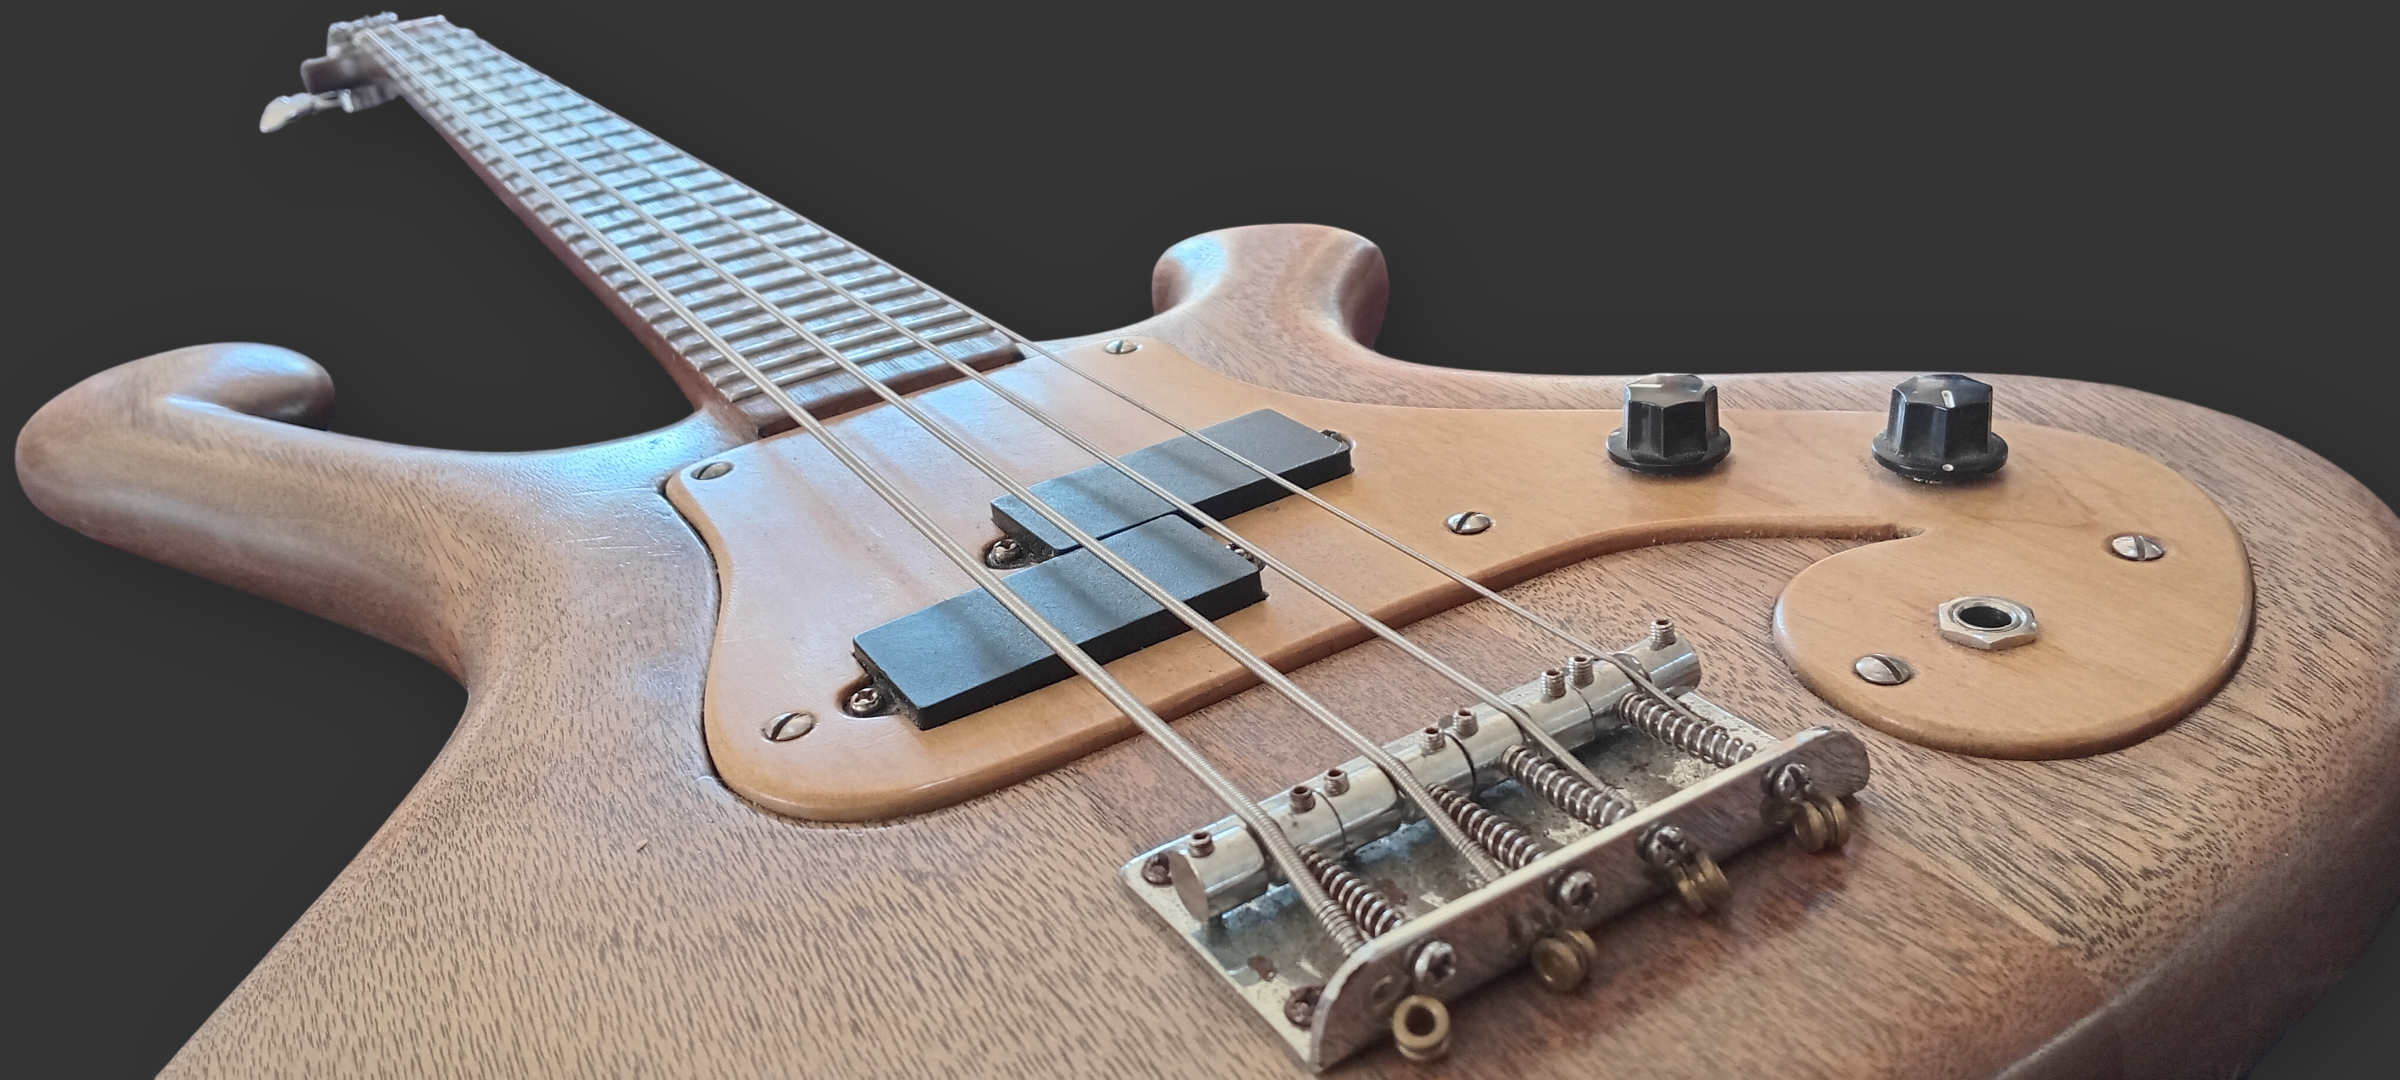
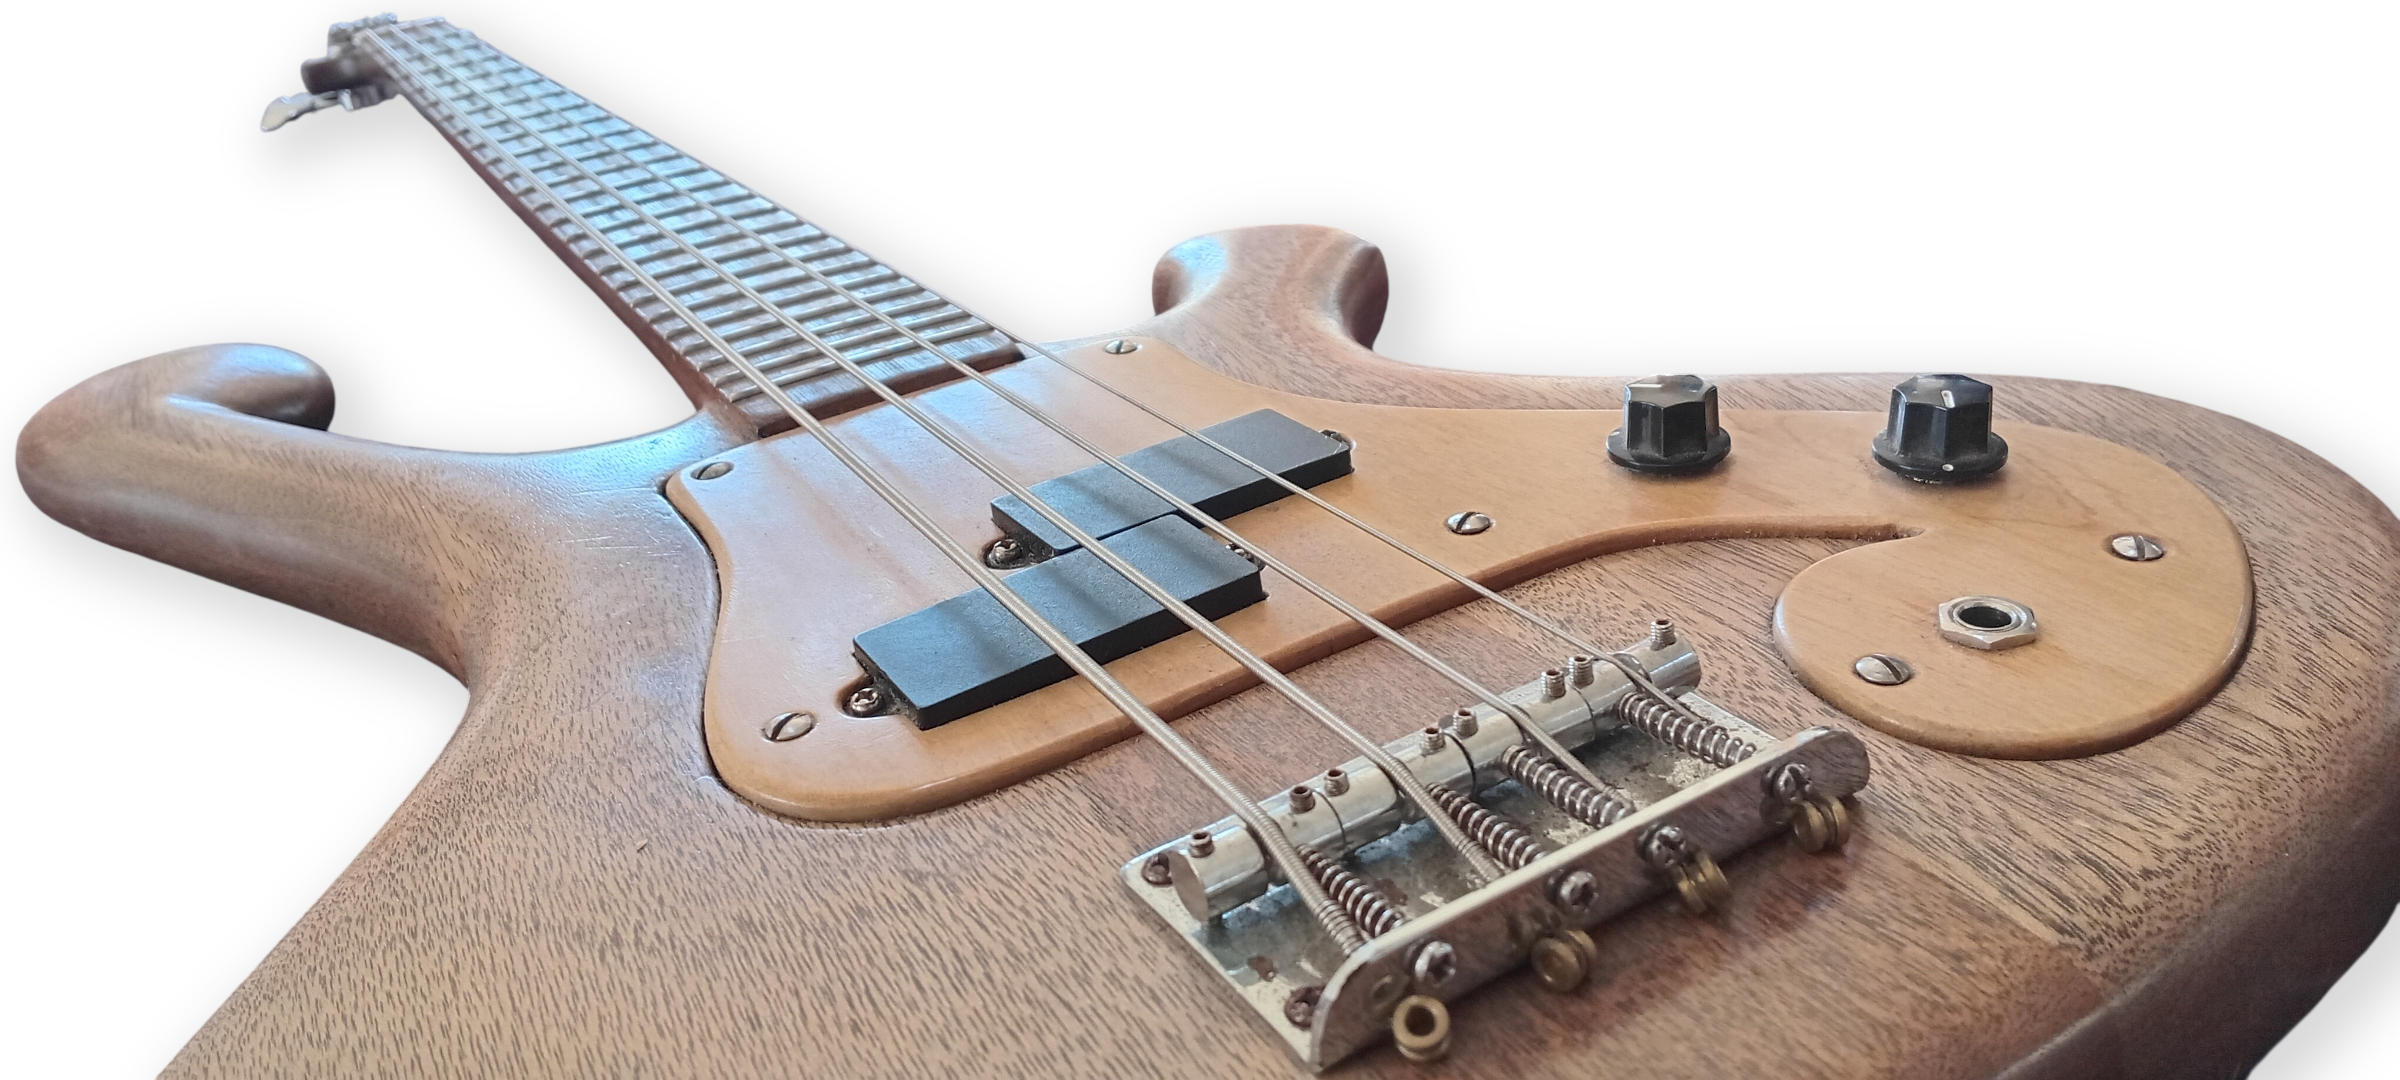
Added scrolling next image in lightbox

diff --git a/guitars/oht-26002.html b/guitars/oht-26002.html
@@ -28,9 +28,10 @@
         <!-- LEFT: main image + masonry gallery -->
         <div class="listing-images">
             <div class="listing-hero">
-                <img src="../images/oht-26002/oht-26002-001.webp" alt="OHT-26002 Front" id="main-image">
+                <img src="../images/oht-26001/1-web_08.avif" alt="OHT-26001 Heel Joint & Contour" id="main-image">
             </div>
             <div class="masonry-gallery">
+                <img src="../images/oht-26002/oht-26002-001.webp" alt="OHT-26002 Front" id="main-image">
                 <img src="../images/oht-26002/oht-26002-001.webp" alt="Front" loading="lazy">
                 <img src="../images/oht-26002/oht-26002-002.webp" alt="Back Detail" loading="lazy">
                 <img src="../images/oht-26002/oht-26002-003.webp" alt="Body Detail - Back" loading="lazy">
@@ -63,11 +64,10 @@
 
             <div class="listing-description">
                 <p>A  fantastic guitar featuring a solid reclaimed Oregon Pine body from an old workbench, a pau marfim neck, and black hardware. Finished with a natural oil finish to highlight the wood grain and feel.</p>
+                <a class="enquire-btn" href="mailto:[email redacted]?subject=Enquiry: Build OHT-26002">
+                    Enquire about this guitar
+                </a>
             </div>
-
-            <a class="enquire-btn" href="mailto:[email redacted]?subject=Enquiry: Build OHT-26002">
-                Enquire about this guitar
-            </a>
         </div>
 
     </div>
@@ -76,7 +76,10 @@
 <!-- Lightbox -->
 <div id="lightbox" class="lightbox">
     <span class="close">&times;</span>
+    <button class="lightbox-prev" aria-label="Previous">&#8592;</button>
     <img class="lightbox-content" id="lightbox-img" alt="">
+    <button class="lightbox-next" aria-label="Next">&#8594;</button>
+    <div class="lightbox-counter" id="lightbox-counter"></div>
 </div>
 
 <footer id="contact">
@@ -97,21 +100,50 @@
 <script>
     const lightbox = document.getElementById('lightbox');
     const lightboxImg = document.getElementById('lightbox-img');
+    const counter = document.getElementById('lightbox-counter');
+    let galleryImgs = [];
+    let currentIndex = 0;
 
-    function imgClickHandler() {
+    function openLightbox(index) {
+        currentIndex = index;
+        lightboxImg.src = galleryImgs[currentIndex].src;
+        lightboxImg.alt = galleryImgs[currentIndex].alt;
+        counter.textContent = (currentIndex + 1) + ' / ' + galleryImgs.length;
         lightbox.classList.add('active');
-        lightboxImg.src = this.src;
-        lightboxImg.alt = this.alt;
     }
 
-    document.querySelectorAll('.masonry-gallery img, .listing-hero img').forEach(img => {
+    function showNext() {
+        currentIndex = (currentIndex + 1) % galleryImgs.length;
+        openLightbox(currentIndex);
+    }
+
+    function showPrev() {
+        currentIndex = (currentIndex - 1 + galleryImgs.length) % galleryImgs.length;
+        openLightbox(currentIndex);
+    }
+
+    function closeLightbox() {
+        lightbox.classList.remove('active');
+    }
+
+    // Collect all gallery images
+    galleryImgs = Array.from(document.querySelectorAll('.masonry-gallery img, .listing-hero img'));
+    galleryImgs.forEach((img, i) => {
         img.style.cursor = 'pointer';
-        img.addEventListener('click', imgClickHandler);
+        img.addEventListener('click', () => openLightbox(i));
     });
 
-    document.querySelector('.close').addEventListener('click', () => lightbox.classList.remove('active'));
-    lightbox.addEventListener('click', (e) => { if (e.target === lightbox) lightbox.classList.remove('active'); });
-    document.addEventListener('keydown', (e) => { if (e.key === 'Escape') lightbox.classList.remove('active'); });
+    document.querySelector('.close').addEventListener('click', closeLightbox);
+    document.querySelector('.lightbox-prev').addEventListener('click', showPrev);
+    document.querySelector('.lightbox-next').addEventListener('click', showNext);
+    lightbox.addEventListener('click', (e) => {
+        if (e.target === lightbox) closeLightbox();
+    });
+    document.addEventListener('keydown', (e) => {
+        if (e.key === 'Escape') closeLightbox();
+        if (e.key === 'ArrowRight') showNext();
+        if (e.key === 'ArrowLeft') showPrev();
+    });
 </script>
 
 </body>

diff --git a/guitars/oht-26001.html b/guitars/oht-26001.html
@@ -27,16 +27,16 @@
 
         <div class="listing-images">
             <div class="listing-hero">
-                <img src="../images/oht-26001/1-web_01.avif" alt="OHT-26001 Full Front" id="main-image">
+                <img src="../images/oht-26001/1-web_08.avif" alt="OHT-26001 Heel Joint & Contour" id="main-image">
             </div>
             <div class="masonry-gallery">
                 <img src="../images/oht-26001/1-web_01.avif" alt="Full Front" loading="lazy">
-                <img src="../images/oht-26001/1-web_02.avif" alt="Body Detail - Front" loading="lazy">
+                
                 <img src="../images/oht-26001/1-web_04.avif" alt="Back" loading="lazy">
                 <img src="../images/oht-26001/1-web_05.avif" alt="Back" loading="lazy">
                 <img src="../images/oht-26001/1-web_06.avif" alt="Full Back" loading="lazy">
                 <img src="../images/oht-26001/1-web_07.avif" alt="Headstock Detail - Back" loading="lazy">
-                <img src="../images/oht-26001/1-web_08.avif" alt="Heel Joint &amp; Contour" loading="lazy">
+                <img src="../images/oht-26001/1-web_08.avif" alt="Heel Joint and Contour" loading="lazy">
                 <img src="../images/oht-26001/1-web_09.avif" alt="Back Detail" loading="lazy">
                 <img src="../images/oht-26001/1-web_10.avif" alt="Front Detail" loading="lazy">
                 <img src="../images/oht-26001/1-web_11.avif" alt="Front Detail" loading="lazy">
@@ -70,8 +70,8 @@
             </div>
 
             <div class="listing-description">
-                <p>A super fun electric guitar featuring a solid cypress body, a pau marfim neck, and chrome hardware. Finished with a natural oil finish to highlight the wood grain and feel.
-                    
+                <p>Add your description here — construction details, tonal character, inspiration behind the build, anything you want a buyer to know.A super fun electric guitar,
+                     featuring a solid cypress body, a pau marfim neck, and chrome hardware. Finished with a natural oil finish to highlight the wood grain and feel.  
                 </p>
             </div>
 
@@ -85,7 +85,10 @@
 
 <div id="lightbox" class="lightbox">
     <span class="close">&times;</span>
+    <button class="lightbox-prev" aria-label="Previous">&#8592;</button>
     <img class="lightbox-content" id="lightbox-img" alt="">
+    <button class="lightbox-next" aria-label="Next">&#8594;</button>
+    <div class="lightbox-counter" id="lightbox-counter"></div>
 </div>
 
 <footer id="contact">
@@ -106,21 +109,45 @@
 <script>
     const lightbox = document.getElementById('lightbox');
     const lightboxImg = document.getElementById('lightbox-img');
+    const counter = document.getElementById('lightbox-counter');
+    let galleryImgs = [];
+    let currentIndex = 0;
 
-    function imgClickHandler() {
+    function openLightbox(index) {
+        currentIndex = index;
+        lightboxImg.src = galleryImgs[currentIndex].src;
+        lightboxImg.alt = galleryImgs[currentIndex].alt;
+        counter.textContent = (currentIndex + 1) + ' / ' + galleryImgs.length;
         lightbox.classList.add('active');
-        lightboxImg.src = this.src;
-        lightboxImg.alt = this.alt;
     }
 
-    document.querySelectorAll('.masonry-gallery img, .listing-hero img').forEach(img => {
+    function showNext() {
+        currentIndex = (currentIndex + 1) % galleryImgs.length;
+        openLightbox(currentIndex);
+    }
+
+    function showPrev() {
+        currentIndex = (currentIndex - 1 + galleryImgs.length) % galleryImgs.length;
+        openLightbox(currentIndex);
+    }
+
+    function closeLightbox() { lightbox.classList.remove('active'); }
+
+    galleryImgs = Array.from(document.querySelectorAll('.masonry-gallery img, .listing-hero img'));
+    galleryImgs.forEach((img, i) => {
         img.style.cursor = 'pointer';
-        img.addEventListener('click', imgClickHandler);
+        img.addEventListener('click', () => openLightbox(i));
     });
 
-    document.querySelector('.close').addEventListener('click', () => lightbox.classList.remove('active'));
-    lightbox.addEventListener('click', (e) => { if (e.target === lightbox) lightbox.classList.remove('active'); });
-    document.addEventListener('keydown', (e) => { if (e.key === 'Escape') lightbox.classList.remove('active'); });
+    document.querySelector('.close').addEventListener('click', closeLightbox);
+    document.querySelector('.lightbox-prev').addEventListener('click', showPrev);
+    document.querySelector('.lightbox-next').addEventListener('click', showNext);
+    lightbox.addEventListener('click', (e) => { if (e.target === lightbox) closeLightbox(); });
+    document.addEventListener('keydown', (e) => {
+        if (e.key === 'Escape') closeLightbox();
+        if (e.key === 'ArrowRight') showNext();
+        if (e.key === 'ArrowLeft') showPrev();
+    });
 </script>
 
 </body>

diff --git a/guitars/spiral-bass.html b/guitars/spiral-bass.html
@@ -50,7 +50,7 @@
                 <h1>Spiral Bass</h1>
                 <span class="status-badge for-sale">For Sale</span>
             </div>
-            <p class="listing-price">R 25,000</p>
+            <p class="listing-price">POA</p>
             <p class="listing-materials">Reclaimed Wood throughout · Natural Shellac Finish</p>
 
             <div class="listing-specs">
@@ -74,7 +74,10 @@
 
 <div id="lightbox" class="lightbox">
     <span class="close">&times;</span>
+    <button class="lightbox-prev" aria-label="Previous">&#8592;</button>
     <img class="lightbox-content" id="lightbox-img" alt="">
+    <button class="lightbox-next" aria-label="Next">&#8594;</button>
+    <div class="lightbox-counter" id="lightbox-counter"></div>
 </div>
 
 <footer id="contact">
@@ -95,21 +98,45 @@
 <script>
     const lightbox = document.getElementById('lightbox');
     const lightboxImg = document.getElementById('lightbox-img');
+    const counter = document.getElementById('lightbox-counter');
+    let galleryImgs = [];
+    let currentIndex = 0;
 
-    function imgClickHandler() {
+    function openLightbox(index) {
+        currentIndex = index;
+        lightboxImg.src = galleryImgs[currentIndex].src;
+        lightboxImg.alt = galleryImgs[currentIndex].alt;
+        counter.textContent = (currentIndex + 1) + ' / ' + galleryImgs.length;
         lightbox.classList.add('active');
-        lightboxImg.src = this.src;
-        lightboxImg.alt = this.alt;
     }
 
-    document.querySelectorAll('.masonry-gallery img, .listing-hero img').forEach(img => {
+    function showNext() {
+        currentIndex = (currentIndex + 1) % galleryImgs.length;
+        openLightbox(currentIndex);
+    }
+
+    function showPrev() {
+        currentIndex = (currentIndex - 1 + galleryImgs.length) % galleryImgs.length;
+        openLightbox(currentIndex);
+    }
+
+    function closeLightbox() { lightbox.classList.remove('active'); }
+
+    galleryImgs = Array.from(document.querySelectorAll('.masonry-gallery img, .listing-hero img'));
+    galleryImgs.forEach((img, i) => {
         img.style.cursor = 'pointer';
-        img.addEventListener('click', imgClickHandler);
+        img.addEventListener('click', () => openLightbox(i));
     });
 
-    document.querySelector('.close').addEventListener('click', () => lightbox.classList.remove('active'));
-    lightbox.addEventListener('click', (e) => { if (e.target === lightbox) lightbox.classList.remove('active'); });
-    document.addEventListener('keydown', (e) => { if (e.key === 'Escape') lightbox.classList.remove('active'); });
+    document.querySelector('.close').addEventListener('click', closeLightbox);
+    document.querySelector('.lightbox-prev').addEventListener('click', showPrev);
+    document.querySelector('.lightbox-next').addEventListener('click', showNext);
+    lightbox.addEventListener('click', (e) => { if (e.target === lightbox) closeLightbox(); });
+    document.addEventListener('keydown', (e) => {
+        if (e.key === 'Escape') closeLightbox();
+        if (e.key === 'ArrowRight') showNext();
+        if (e.key === 'ArrowLeft') showPrev();
+    });
 </script>
 
 </body>

diff --git a/style.css b/style.css
@@ -362,8 +362,43 @@ nav a {
 }
 
 .lightbox.active { display: flex; }
-.lightbox-content { max-width: 90%; max-height: 90%; object-fit: contain; }
-.close { position: absolute; top: 15px; right: 35px; color: #fff; font-size: 40px; cursor: pointer; }
+.lightbox-content { max-width: 90%; max-height: 90vh; object-fit: contain; }
+.close { position: absolute; top: 15px; right: 35px; color: #fff; font-size: 40px; cursor: pointer; line-height: 1; }
+
+/* Prev / Next arrows */
+.lightbox-prev,
+.lightbox-next {
+    position: absolute;
+    top: 50%;
+    transform: translateY(-50%);
+    background: rgba(255,255,255,0.1);
+    border: none;
+    color: #fff;
+    font-size: 28px;
+    padding: 14px 18px;
+    cursor: pointer;
+    border-radius: 4px;
+    transition: background 0.2s ease;
+    user-select: none;
+    line-height: 1;
+}
+
+.lightbox-prev { left: 20px; }
+.lightbox-next { right: 20px; }
+
+.lightbox-prev:hover,
+.lightbox-next:hover { background: rgba(255,255,255,0.25); }
+
+/* Image counter */
+.lightbox-counter {
+    position: absolute;
+    bottom: 20px;
+    left: 50%;
+    transform: translateX(-50%);
+    color: rgba(255,255,255,0.6);
+    font-size: 13px;
+    letter-spacing: 1px;
+}
 
 /* ================================
    SOCIAL ICONS & FOOTER